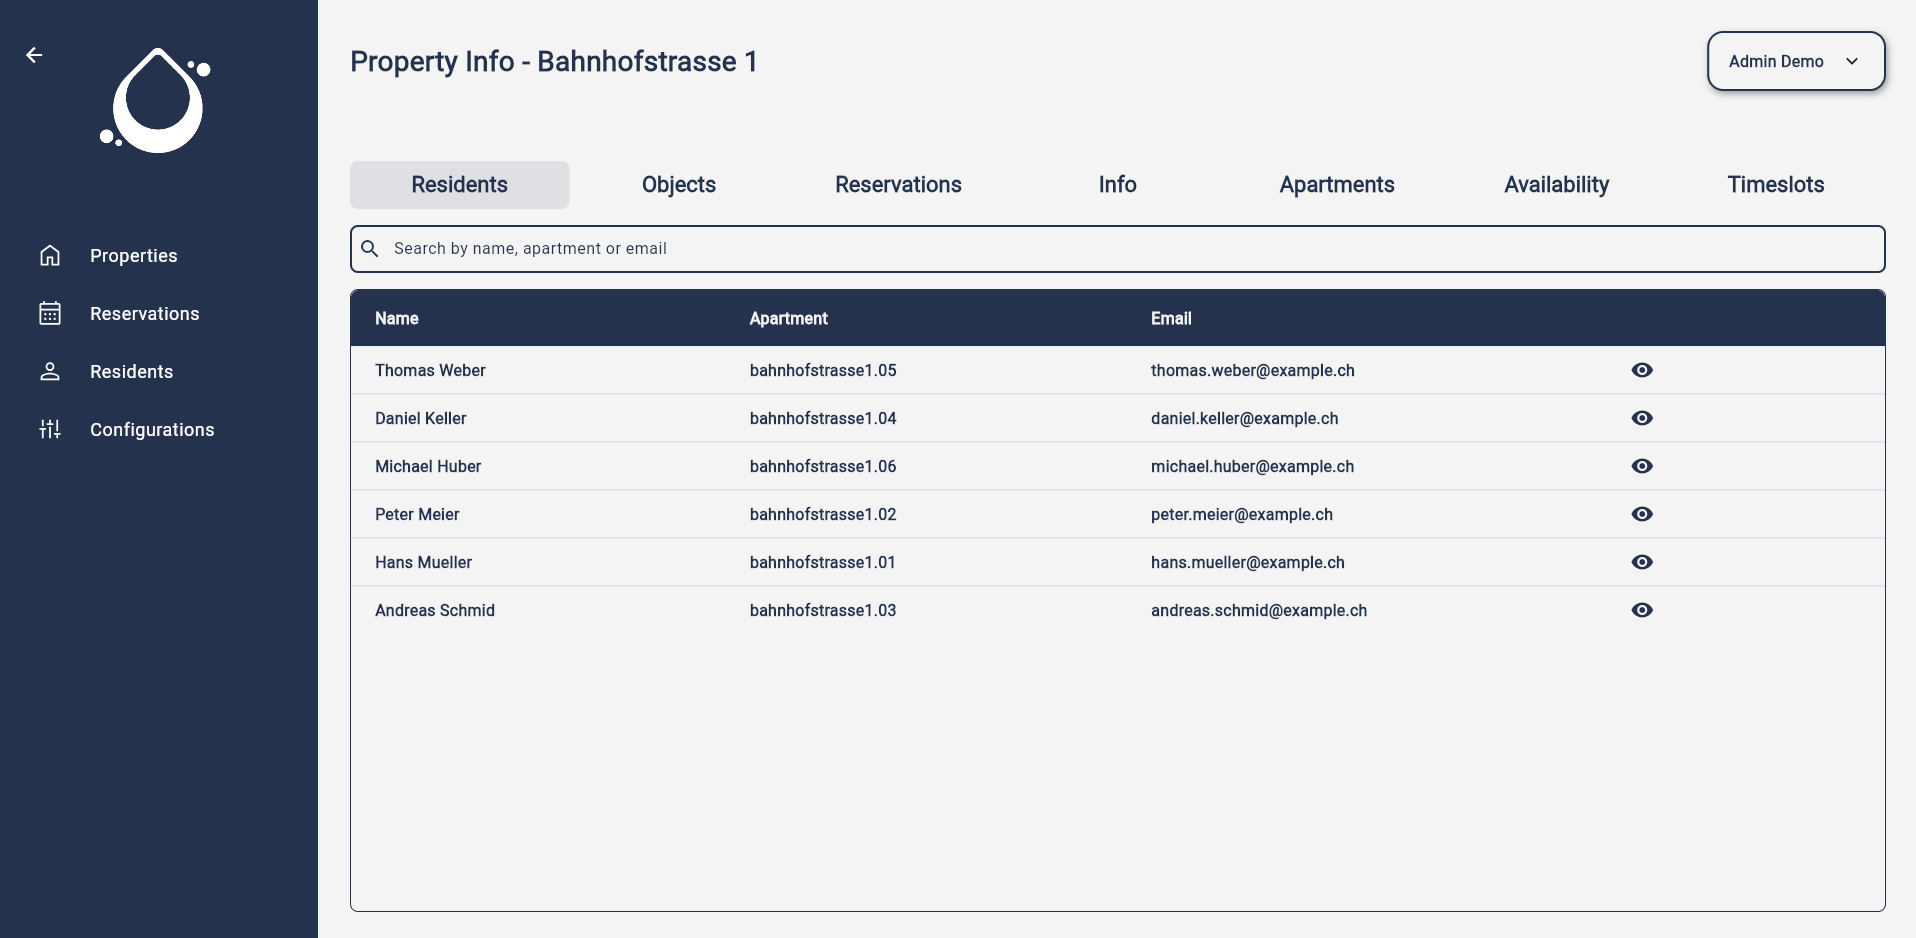
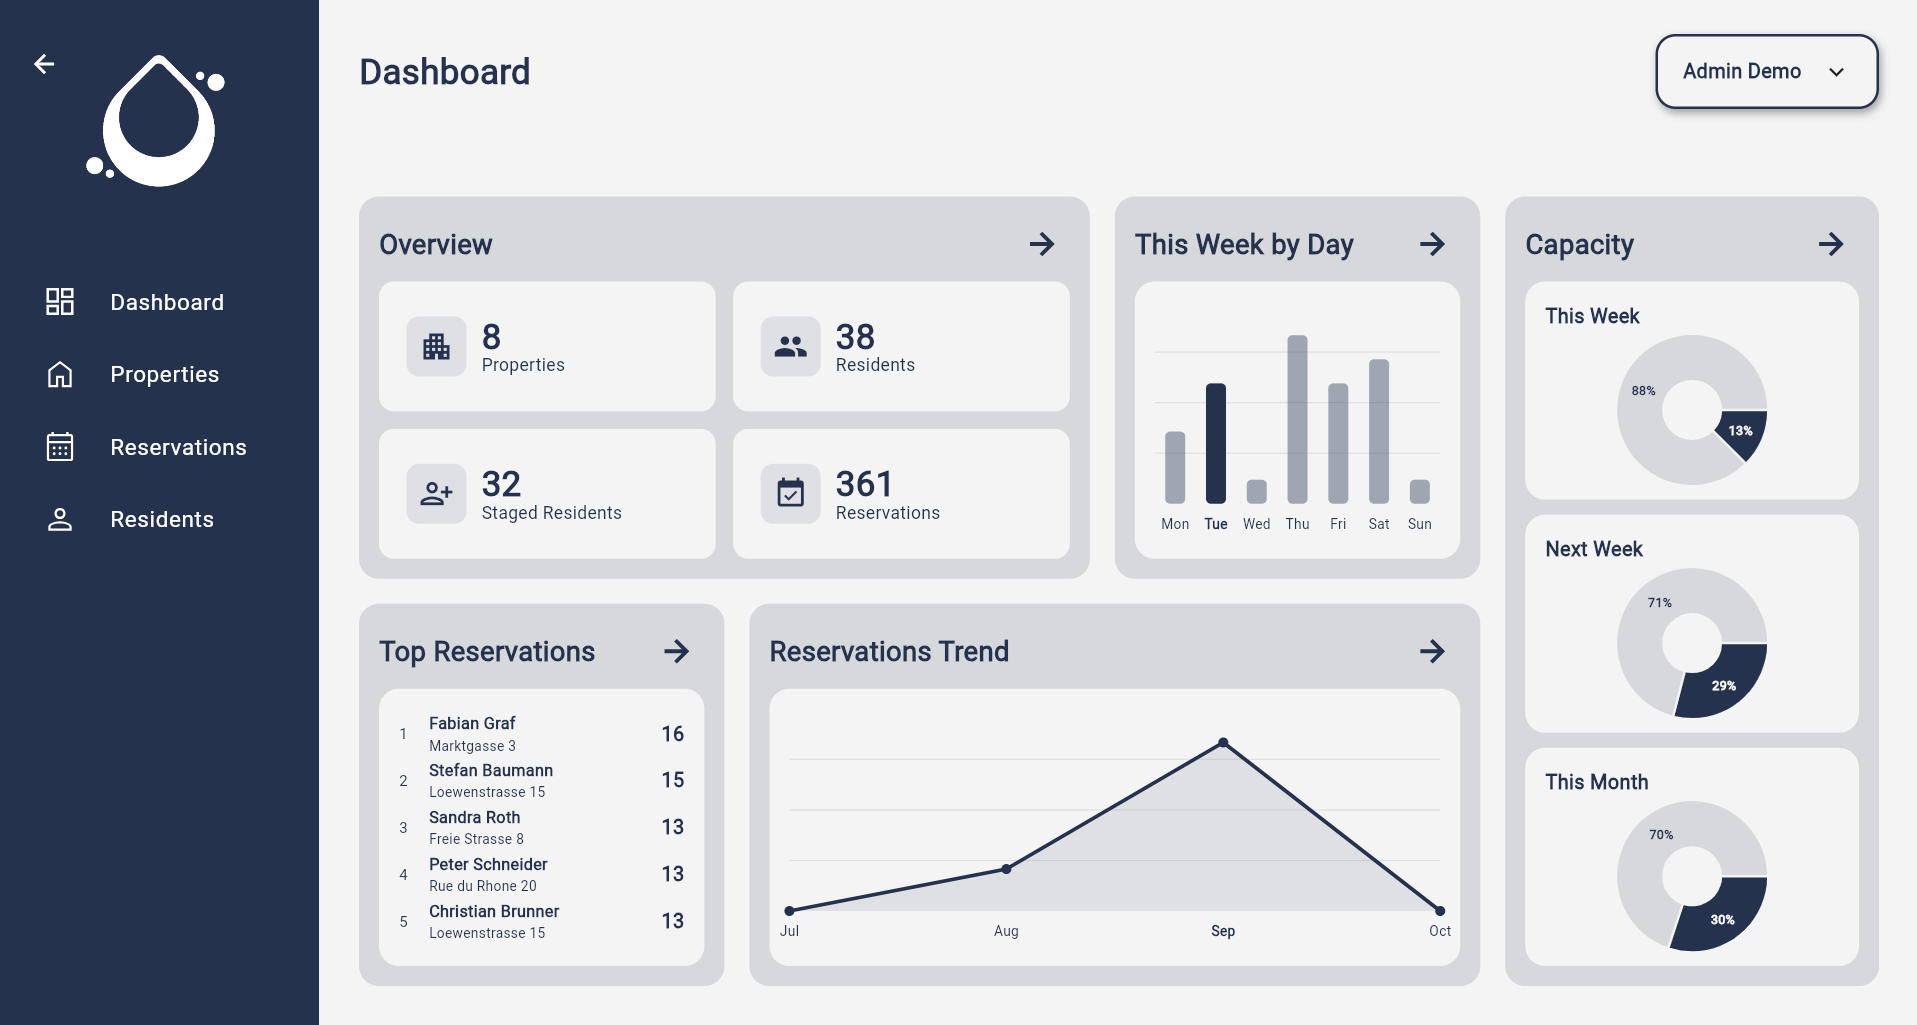
Add project image hover previews, replace Lavaresi screenshot, and mute pdnSave crashes
- ProjectCard: image links to article, adds hover-swap preview, uniform aspect ratio
- Home: exclude portfolio from featured, back to 2-column grid
- Lavaresi Admin Panel: new dashboard/table screenshots, article rewritten in prose
- theme-color meta synced with dark mode + mobile safe-area padding
- vite.config: ignore *.pdnSave temp files (was crashing dev server)

diff --git a/src/data/articleContent.js b/src/data/articleContent.js
@@ -62,19 +62,16 @@ export const ARTICLE_CONTENT = {
   },
 
   "lavaresi-admin-panel": `
-    <p>The <strong>Lavaresi Admin Panel</strong> is the internal management tool of a laundry-reservation platform for residential properties. It lets property managers register buildings, configure shared laundry equipment such as washing machines and dryers, manage residents and their apartments, and oversee the timeslots residents use to book them.</p>
-    <p>The panel is built with <strong>Flutter Web</strong> as part of a <strong>Melos</strong> monorepo, sharing authentication, models, and services with the resident-facing app through a common <strong>shared_code</strong> package. This let me reuse core business logic across apps instead of duplicating it, while keeping the admin interface independent.</p>
-    <h2>State management with GetX</h2>
-    <p>I used <strong>GetX</strong> for state management, routing, and dependency injection. Controllers expose the data each screen needs and react to changes without extra boilerplate. Access to certain sections depends on the signed-in user's role, resolved through a shared <strong>AuthService</strong> injected via <strong>Get.find()</strong>:</p>
-    <pre id="code_admin_controller"><code><span class="orange_code">class</span> <span class="blue_code">AdminController</span> <span class="orange_code">extends</span> GetxController {
-  AuthService <span class="orange_code">get</span> _authService <span class="green_code">=></span> Get.find();
-
-  <span class="orange_code">bool</span> <span class="orange_code">get</span> isSuperuser <span class="green_code">=></span> _authService.isSuperuser;
-  <span class="orange_code">bool</span> <span class="orange_code">get</span> isPropertyManager <span class="green_code">=></span> _authService.isPropertyManager;
-}</code></pre>
-    <p>This pattern made it straightforward to show or hide parts of the panel, such as global configurations, depending on whether the signed-in user is a superuser or a property manager.</p>
-    <h2>Managing properties, residents and reservations</h2>
-    <p>Each property has its own set of tabs — Residents, Objects, Reservations, Info, Apartments, Availability, and Timeslots — so managers can search residents by name or apartment, register laundry objects, and control the availability windows residents can reserve. Data can be exported to <strong>CSV</strong> and <strong>Excel</strong> for reporting, using the <strong>csv</strong> and <strong>excel</strong> packages together with <strong>file_picker</strong> for uploads.</p>
-    <p>Working on this project helped me get comfortable building multi-screen Flutter Web applications with role-based access, reusing code across a monorepo, and structuring a real admin dashboard that a non-technical team uses day to day.</p>
+    <p>En Infra Support AG, después de trabajar en la aplicación móvil Lavaresi, una aplicación para gestionar la reserva de lavadoras y secadoras en edificios residenciales en Suiza, surgió la necesidad de crear un panel de administración. La herramienta debía permitir a los property managers, responsables de la gestión de cada edificio, administrar directamente los datos y operaciones de la aplicación, desde los equipos disponibles hasta los residentes y las estadísticas de uso.</p>
+    <p>El proyecto quedó principalmente a mi cargo. Partí de un prototipo inicial y, junto a un desarrollador senior que actuaba como revisor a alto nivel, planteé y desarrollé la aplicación desde cero, trabajando progresivamente en cada una de sus áreas. Esto incluyó tanto el frontend como el backend, desde el diseño de las pantallas y la arquitectura del código hasta el modelo de datos.</p>
+    <p>Los primeros diseños los realicé en Penpot, buscando modernizar ligeramente la interfaz sin alejarla del estilo serio y sobrio que ya utilizaban las demás aplicaciones de la compañía. A partir de estos diseños, fui implementando la aplicación de forma incremental, con reuniones semanales de seguimiento para revisar avances, discutir decisiones y recoger feedback. Actualmente, el proyecto se encuentra en fase de testing y de desarrollo de nuevas funcionalidades.</p>
+    <p>En el backend desarrollé la API siguiendo la arquitectura en capas ya establecida en el proyecto principal de Lavaresi, basada en DAO, servicios y controladores. Esto permitió reutilizar parte de la lógica de negocio existente y mantener una estructura consistente con el resto del ecosistema de la aplicación.</p>
+    <p>El frontend, desarrollado con Flutter Web, incluye un sistema de permisos basado en roles que diferencia entre superusuarios y property managers. De esta forma, cada usuario puede acceder únicamente a los edificios y secciones que corresponden a sus permisos.</p>
+    <p>A nivel funcional, el panel permite gestionar los principales elementos de cada edificio: propiedades, apartamentos, residentes y equipos de lavandería. También incluye un asistente de configuración paso a paso para registrar un nuevo edificio, desde la creación de sus apartamentos hasta la configuración de equipos y residentes.</p>
+    <p>Entre las funcionalidades desarrolladas se encuentran también las restricciones de uso configurables por residente o propiedad, las reservas puntuales y recurrentes, y la importación masiva de datos mediante archivos Excel, especialmente útil para property managers que gestionan varios edificios.</p>
+    <p>El dashboard reúne métricas de ocupación semanal y mensual, así como la evolución de las reservas por edificio. El panel incluye además un sistema de notificaciones configurables y soporte multi-idioma.</p>
+    <p>Este proyecto representó para mí un paso importante como desarrollador, ya que fue la primera vez que tuve la responsabilidad de desarrollar una aplicación de esta escala dentro de un entorno laboral real, desde las primeras decisiones de diseño y arquitectura hasta su fase de testing.</p>
+    <p>Trabajar en el proyecto me obligó a afrontar problemas a una escala diferente de la de mis proyectos personales: diseñar una arquitectura mantenible, reutilizar correctamente la lógica existente, tomar decisiones de producto y comunicar avances y problemas en reuniones semanales. Al mismo tiempo, trabajar con la revisión de un desarrollador senior me permitió aprender a recibir feedback técnico y convertirlo en mejoras concretas sin perder de vista la visión general del producto.</p>
+    <p>Fue una experiencia especialmente importante para mí y, hasta ahora, el proyecto que más ha contribuido a mi crecimiento como desarrollador.</p>
   `,
 };

diff --git a/src/components/ProjectCard.jsx b/src/components/ProjectCard.jsx
@@ -19,14 +19,17 @@ export default function ProjectCard({ project }) {
       <Link to={`/projects/${project.slug}`}>
         <div id="project_title">{project.title}</div>
       </Link>
-      <div id="project_image">
+      <Link to={`/projects/${project.slug}`} id="project_image">
         <ModeImage
           light={project.imageLight}
           dark={project.imageDark}
           alt="Project preview in light and dark mode"
           className="project_image_change"
         />
-      </div>
+        {project.imageHover && (
+          <img src={project.imageHover} alt="" className="project_image_hover" />
+        )}
+      </Link>
       {project.technologies && project.technologies.length > 0 && (
         <div id="project_technologies">
           {project.technologies.map((tech) => (
@@ -41,35 +44,38 @@ export default function ProjectCard({ project }) {
           ))}
         </div>
       )}
-      <div id="project_description">{t(project.descriptionKey)}</div>
-      <div id="project_links">
-        <ul id="project_links_list">
-          <li>
-            <Link to={`/projects/${project.slug}`} className="project_link">
-              {t("Article")}
-            </Link>
-          </li>
-          {project.sourceUrl && (
-            <li>
-              <a
-                href={project.sourceUrl}
-                className="project_link"
-                target="_blank"
-                rel="noreferrer"
-              >
-                {t("Source")} <i className="ri-external-link-line"></i>
-              </a>
-            </li>
-          )}
-          {project.demoUrl && (
-            <li>
-              <Link to={project.demoUrl} className="project_link">
-                {t("Demo")} <i className="ri-external-link-line"></i>
-              </Link>
-            </li>
-          )}
-        </ul>
+      <div id="project_down">
+        <div id="project_description">{t(project.descriptionKey)}</div>
+              <div id="project_links">
+                <ul id="project_links_list">
+                  <li>
+                    <Link to={`/projects/${project.slug}`} className="project_link">
+                      {t("Article")}
+                    </Link>
+                  </li>
+                  {project.sourceUrl && (
+                    <li>
+                      <a
+                        href={project.sourceUrl}
+                        className="project_link"
+                        target="_blank"
+                        rel="noreferrer"
+                      >
+                        {t("Source")} <i className="ri-external-link-line"></i>
+                      </a>
+                    </li>
+                  )}
+                  {project.demoUrl && (
+                    <li>
+                      <Link to={project.demoUrl} className="project_link">
+                        {t("Demo")} <i className="ri-external-link-line"></i>
+                      </Link>
+                    </li>
+                  )}
+                </ul>
+              </div>
       </div>
+      
     </div>
   );
 }

diff --git a/src/styles/main.css b/src/styles/main.css
@@ -68,6 +68,7 @@ body {
   background-color: var(--body-color);
   color: var(--text-color);
   transition: background-color 0.3s ease, color 0.3s ease;
+  padding-bottom: env(safe-area-inset-bottom);
 }
 
 input,
@@ -413,8 +414,32 @@ nav {
 }
 
 #project_image{
+  display: block;
+  position: relative;
+  overflow: hidden;
+  aspect-ratio: 1917 / 1025;
   border-top: 2px solid var(--text-color);
   background-color: transparent !important;
+}
+
+.project_image_change{
+  width: 100%;
+  height: 100%;
+  object-fit: cover;
+}
+
+.project_image_hover{
+  position: absolute;
+  inset: 0;
+  width: 100%;
+  height: 100%;
+  object-fit: cover;
+  opacity: 0;
+  transition: opacity 0.3s ease;
+}
+
+#project_image:hover .project_image_hover{
+  opacity: 1;
 }
 
 #project_company{
@@ -473,14 +498,23 @@ nav {
   visibility: visible;
 }
 
-#project_description{
-  padding: .75rem 1rem;
+#project_down{
+  display: flex;
+  flex-direction: column;
+  flex: 1;
   background-color: var(--header-color);
+
+}
+
+#project_description{
+  flex: 1;
+  display: flex;
+  align-items: center;
+  justify-content: center;
+  padding: .75rem 1rem;
 }
 
 #project_links{
-  margin-top: auto;
-  background-color: var(--header-color);
   border-bottom-left-radius: 12px;
   border-bottom-right-radius: 12px;
 }
@@ -979,10 +1013,6 @@ nav {
 
 #projects_header{
   padding-right: 2%;
-}
-
-#projects{
-  grid-template-columns: auto auto auto;
 }
 
   }

diff --git a/index.html b/index.html
@@ -2,7 +2,8 @@
 <html lang="en">
   <head>
     <meta charset="UTF-8" />
-    <meta name="viewport" content="width=device-width, initial-scale=1.0" />
+    <meta name="viewport" content="width=device-width, initial-scale=1.0, viewport-fit=cover" />
+    <meta name="theme-color" content="hsl(230, 100%, 98%)" />
 
     <meta name="description" content="My web development portfolio showcasing projects and skills." />
     <meta name="keywords" content="web developer, portfolio, programming, React, JavaScript, frontend, backend, HTML, CSS" />

diff --git a/src/data/projects.js b/src/data/projects.js
@@ -7,6 +7,7 @@ export const PROJECTS = [
     descriptionKey: "Flutter web admin panel to manage properties, laundry reservations, and residents.",
     imageLight: "/assets/images/lavaresi_admin_panel.png",
     imageDark: "/assets/images/lavaresi_admin_panel.png",
+    imageHover: "/assets/images/lavaresi_admin_panel_table.png",
     technologies: [
       { icon: "/assets/icons/dart.svg", label: "Dart" },
       { icon: "/assets/icons/flutter.svg", label: "Flutter" },

diff --git a/src/context/SiteContext.jsx b/src/context/SiteContext.jsx
@@ -28,6 +28,11 @@ function applyDarkModeVars(enabled) {
   Object.entries(vars).forEach(([key, value]) => {
     document.documentElement.style.setProperty(key, value);
   });
+
+  const themeColorMeta = document.querySelector('meta[name="theme-color"]');
+  if (themeColorMeta) {
+    themeColorMeta.setAttribute("content", vars["--body-color"]);
+  }
 }
 
 export function SiteProvider({ children }) {

diff --git a/src/pages/Home.jsx b/src/pages/Home.jsx
@@ -12,7 +12,7 @@ export default function Home() {
     document.title = `Yonathan Gonçalves | ${t("Home")}`;
   }, [t]);
 
-  const featured = PROJECTS.slice(0, 3);
+  const featured = PROJECTS.filter((project) => !project.ownProject).slice(0, 3);
 
   return (
     <>

diff --git a/vite.config.js b/vite.config.js
@@ -4,4 +4,9 @@ import { defineConfig } from 'vite'
 // https://vite.dev/config/
 export default defineConfig({
   plugins: [react()],
+  server: {
+    watch: {
+      ignored: ['**/*.pdnSave', '**/*.pdnSave.*'],
+    },
+  },
 })
